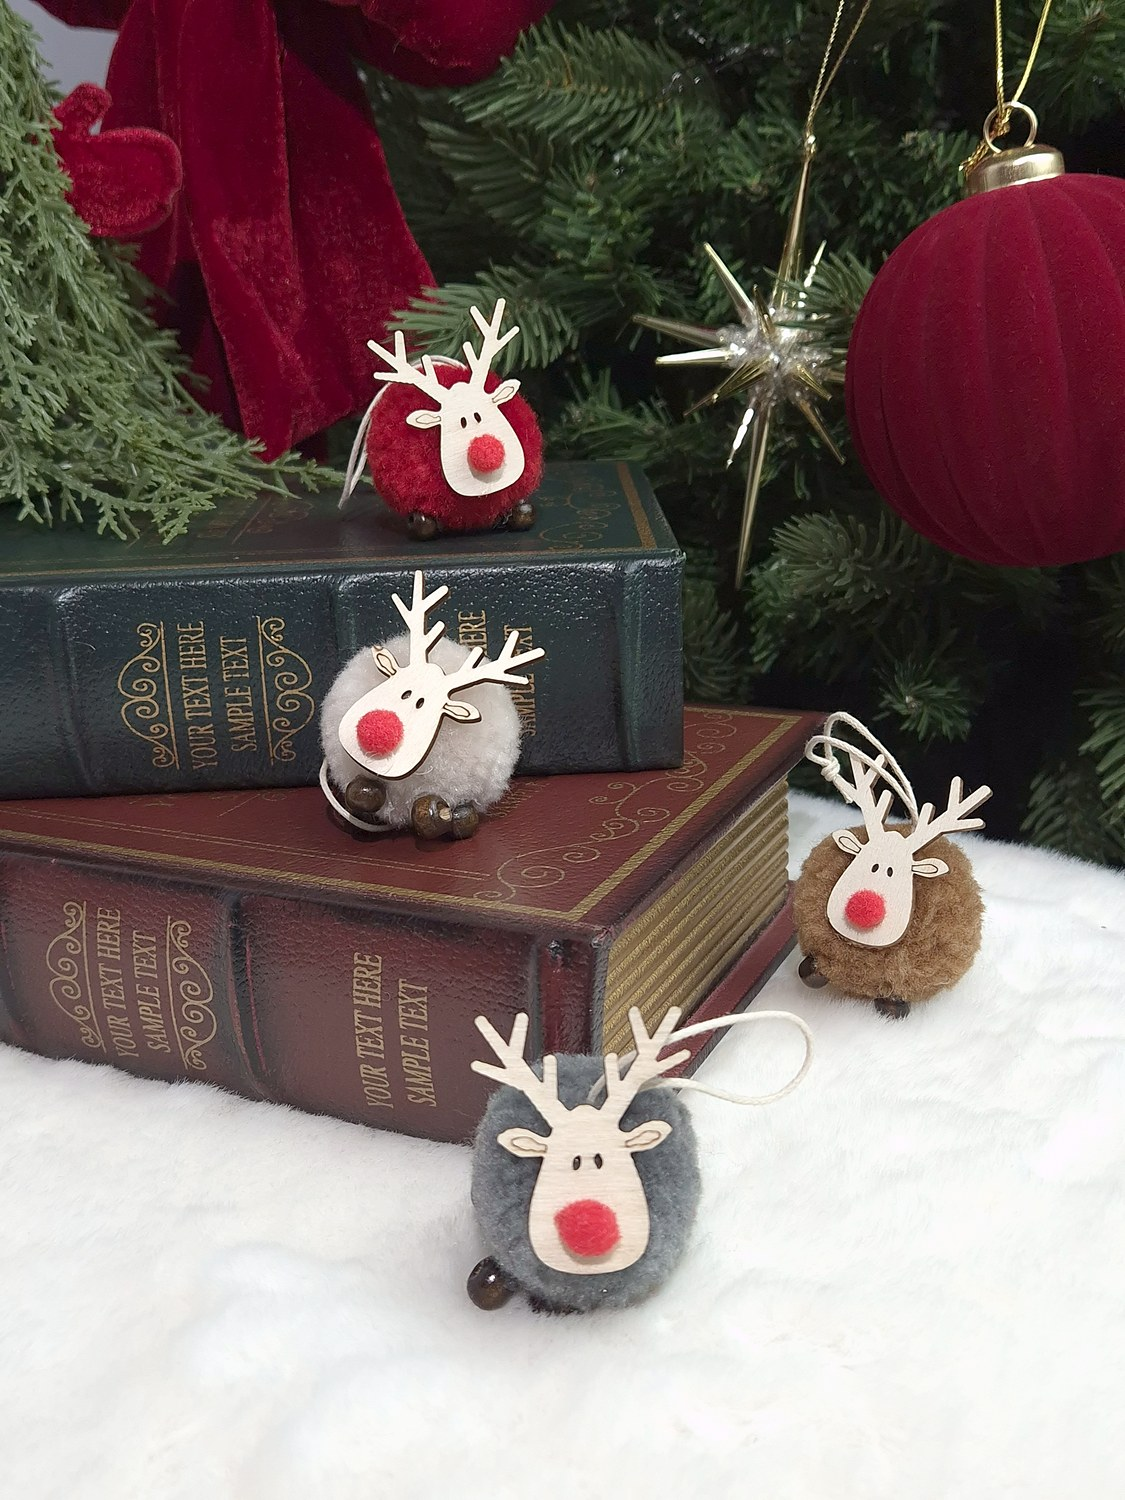
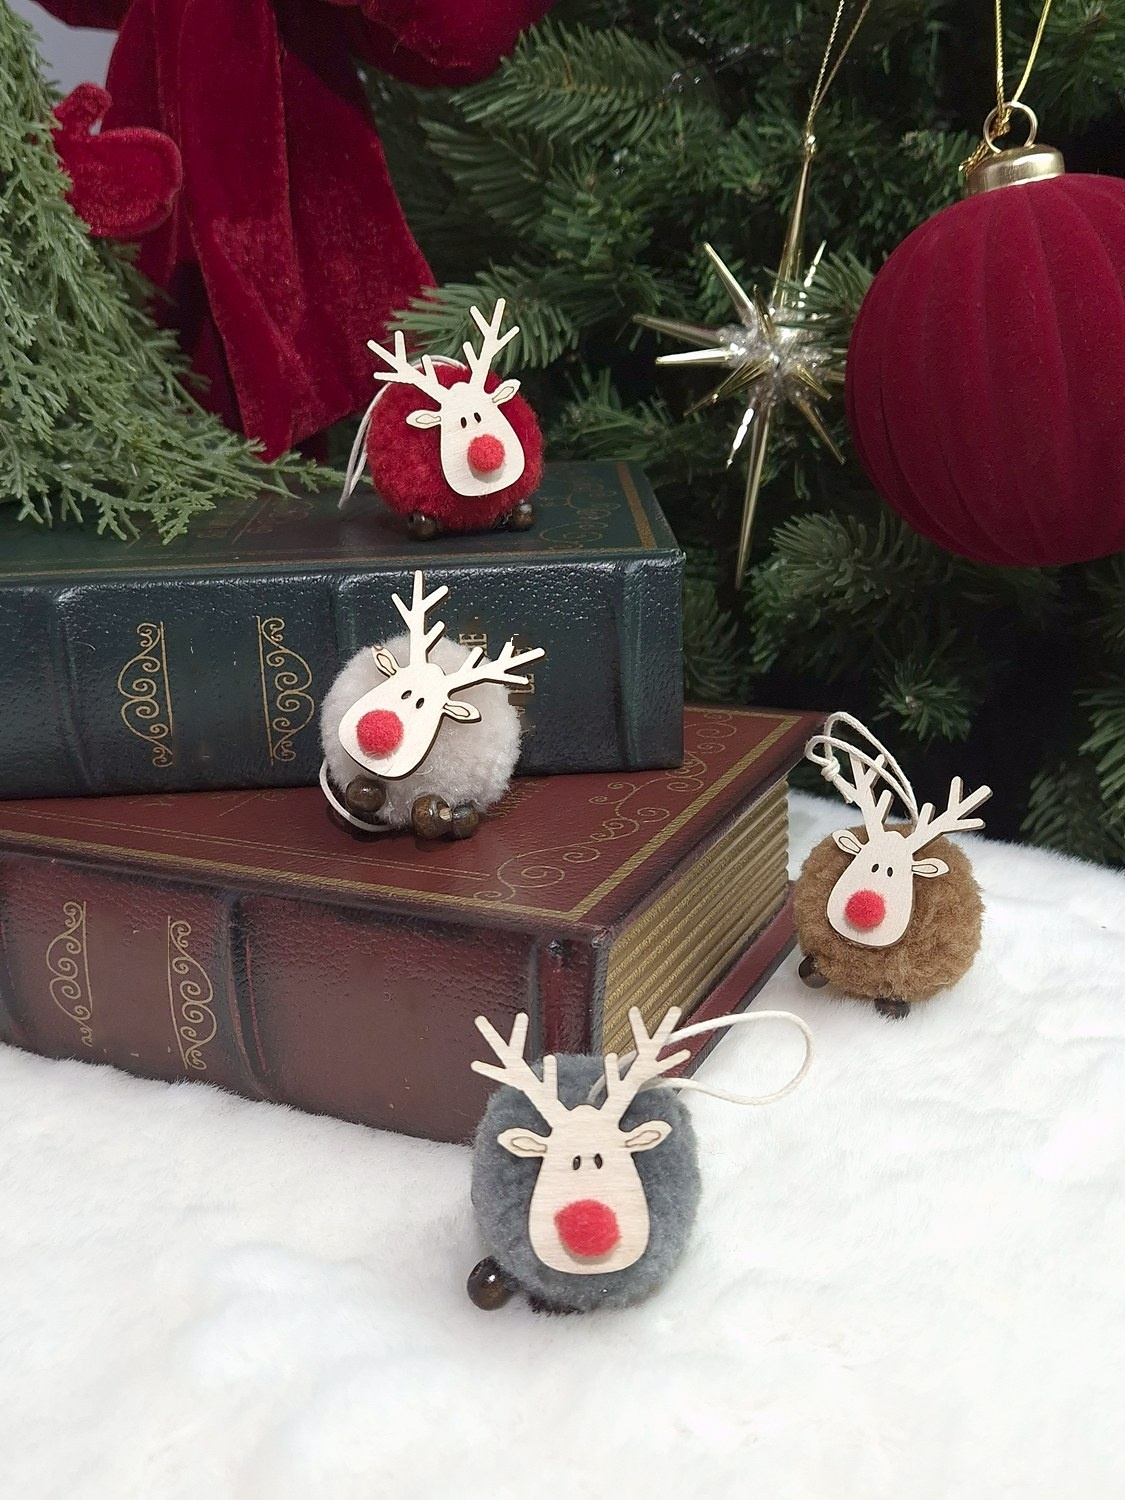
건53 수정: 그레이·세트구성·사진 추가

diff --git a/pdp/pompom-reindeer-4color/index.html b/pdp/pompom-reindeer-4color/index.html
@@ -25,7 +25,7 @@ img{display:block;width:100%;height:auto}
 .intro .k{font-family:'Great Vibes',cursive;font-size:36px;color:#c8102e}
 .intro h2{font-size:34px;line-height:1.45;margin:6px 0 22px}
 .intro p{font-size:21px;line-height:1.95;color:#5a3a22}
-/* options */
+/* set */
 .sec{padding:60px 50px}
 .sec h3.cap{text-align:center;font-family:'Great Vibes',cursive;font-weight:400;font-size:46px;color:#c8102e;line-height:1.1}
 .sec h3.cap+.sub{text-align:center;font-size:19px;color:#7a6350;margin:6px 0 30px}
@@ -47,7 +47,7 @@ img{display:block;width:100%;height:auto}
 .cprow .no{font-family:'Great Vibes',cursive;color:#c8102e;font-size:30px}
 .cprow h4{font-size:30px;line-height:1.35;margin:4px 0 14px}
 .cprow p{font-size:19px;line-height:1.85;color:#5a3a22}
-/* option detail */
+/* color detail */
 .od{display:flex;align-items:center;background:#fff;margin:0 0 0}
 .od:nth-child(even){flex-direction:row-reverse;background:#f6efe2}
 .od .ph{flex:0 0 430px}
@@ -84,7 +84,7 @@ th{width:170px;background:#f3e9d6;font-family:'Gowun Batang',serif;font-weight:7
   <div class="dots">● ● ●</div>
   <h1 class="ti">폼폼 미니 니트<br>루돌프 오너먼트</h1>
   <div class="en">Pompom Mini Knit Reindeer Ornament</div>
-  <div class="cl">브라운 · 레드 · 크림 · 블루</div>
+  <div class="cl">브라운 · 레드 · 크림 · 그레이 &nbsp;|&nbsp; 4개 세트</div>
 </section>
 <img src="303748_01.jpg" alt="폼폼 미니 니트 루돌프 오너먼트 4컬러">
 
@@ -92,20 +92,22 @@ th{width:170px;background:#f3e9d6;font-family:'Gowun Batang',serif;font-weight:7
 <section class="intro">
   <div class="k">Hello, Rudolph</div>
   <h2 class="ti">트리 한쪽에<br>폭신한 루돌프 한 마리</h2>
-  <p>동글동글 폼폼 몸통에 점 눈, 빨간 코를 단 루돌프가<br>트리 가지 위에서 살며시 인사해요.<br>브라운, 레드, 크림, 블루 네 가지 컬러 중<br>우리 집 트리와 가장 잘 어울리는 친구를 골라 보세요.</p>
+  <p>동글동글 폼폼 몸통에 점 눈, 빨간 코를 단 루돌프가<br>트리 가지 위에서 살며시 인사해요.<br>브라운, 레드, 크림, 그레이<br>네 가지 컬러의 니트 루돌프가 한 세트로 찾아와요.</p>
 </section>
+<img src="303748_02.jpg" alt="책 위에 모인 루돌프 4총사">
 
-<!-- 3 옵션 박스 -->
+<!-- 3 세트 구성 박스 -->
 <section class="sec">
-  <h3 class="cap">Options</h3>
-  <div class="sub">컬러를 골라 주세요</div>
+  <h3 class="cap">Set Composition</h3>
+  <div class="sub">니트 루돌프 4개, 한 세트 구성</div>
   <div class="optbox">
     <div class="optgrid">
       <div class="opt"><img src="303758_02.jpg" alt="브라운"><b class="ti">브라운</b><i>Brown</i></div>
       <div class="opt"><img src="303758_03.jpg" alt="레드"><b class="ti">레드</b><i>Red</i></div>
       <div class="opt"><img src="303758_01.jpg" alt="크림"><b class="ti">크림</b><i>Cream</i></div>
-      <div class="opt"><img src="303758_04.jpg" alt="블루"><b class="ti">블루</b><i>Blue</i></div>
+      <div class="opt"><img src="303758_04.jpg" alt="그레이"><b class="ti">그레이</b><i>Gray</i></div>
     </div>
+    <div class="spec"><b class="ti" style="font-size:22px">구성 : 니트 루돌프 4개 세트</b><br>브라운 · 레드 · 크림 · 그레이 각 1개</div>
   </div>
 </section>
 <img src="303748_08.jpg" alt="4컬러 나란히" style="width:70%;margin:0 auto 56px;border-radius:14px">
@@ -124,10 +126,10 @@ th{width:170px;background:#f3e9d6;font-family:'Gowun Batang',serif;font-weight:7
     <div class="tx"><div class="no">Point 3</div><h4 class="ti">끈 하나로<br>바로 걸기</h4><p>윗부분에 연결된 끈을 트리 가지에 걸어 사용해요.</p></div></div>
 </section>
 
-<!-- 5 옵션별 설명 -->
+<!-- 5 컬러 소개 -->
 <section class="sec" style="padding-bottom:36px;padding-top:70px">
-  <h3 class="cap">Color</h3>
-  <div class="sub">컬러별로 만나 보세요</div>
+  <h3 class="cap">Four Friends</h3>
+  <div class="sub">한 세트에 함께 들어 있는 네 친구를 소개해요</div>
 </section>
 <section>
   <div class="od"><div class="ph"><img src="303758_02.jpg" alt="브라운"></div>
@@ -136,15 +138,16 @@ th{width:170px;background:#f3e9d6;font-family:'Gowun Batang',serif;font-weight:7
     <div class="tx"><h4 class="ti"><span class="sw" style="background:#c8102e"></span>레드</h4><div class="en">Red</div><p>트리 속에서 가장 먼저 눈에 들어오는 선명한 레드예요.</p></div></div>
   <div class="od"><div class="ph"><img src="303758_01.jpg" alt="크림"></div>
     <div class="tx"><h4 class="ti"><span class="sw" style="background:#efe3cf"></span>크림</h4><div class="en">Cream</div><p>눈 내린 날처럼 부드러운 크림 컬러예요.</p></div></div>
-  <div class="od"><div class="ph"><img src="303758_04.jpg" alt="블루"></div>
-    <div class="tx"><h4 class="ti"><span class="sw" style="background:#7f8794"></span>블루</h4><div class="en">Blue</div><p>차분하고 시원한 톤의 컬러예요.</p></div></div>
+  <div class="od"><div class="ph"><img src="303758_04.jpg" alt="그레이"></div>
+    <div class="tx"><h4 class="ti"><span class="sw" style="background:#8a8d91"></span>그레이</h4><div class="en">Gray</div><p>차분하고 도시적인 그레이 컬러예요.</p></div></div>
 </section>
+<img src="303748_05.jpg" alt="트리 앞에 모인 루돌프">
 
 <!-- 6 Gallery -->
 <section class="gal">
   <h3>Gallery</h3>
   <div class="sub">눈 같은 러그 위, 트리 곁에서<br>귀여운 루돌프 4총사</div>
-  <img src="303748_03.jpg" alt="위에서 본 4컬러">
+  <div class="pair"><img src="303748_04.jpg" alt="트리 곁 루돌프 4총사"><img src="303748_03.jpg" alt="위에서 본 4컬러"></div>
   <div style="height:56px"></div>
 </section>
 
@@ -152,8 +155,8 @@ th{width:170px;background:#f3e9d6;font-family:'Gowun Batang',serif;font-weight:7
 <section class="info">
   <h3 class="cap" style="text-align:center;font-family:'Great Vibes',cursive;font-weight:400;font-size:46px;color:#c8102e;margin-bottom:26px">Product Info</h3>
   <table>
-    <tr><th>상품명</th><td>폼폼 미니 니트 루돌프 오너먼트 4컬러 (브라운·레드·크림·블루)</td></tr>
-    <tr><th>옵션</th><td>브라운 / 레드 / 크림 / 블루</td></tr>
+    <tr><th>상품명</th><td>폼폼 미니 니트 루돌프 오너먼트 4컬러 (브라운·레드·크림·그레이)</td></tr>
+    <tr><th>구성</th><td>니트 루돌프 4개 세트 (브라운 / 레드 / 크림 / 그레이 각 1개)</td></tr>
   </table>
 </section>
 <div class="ft"><div class="logo">charencia,</div><small>CHARENCIA CHRISTMAS DECORATION</small></div>
